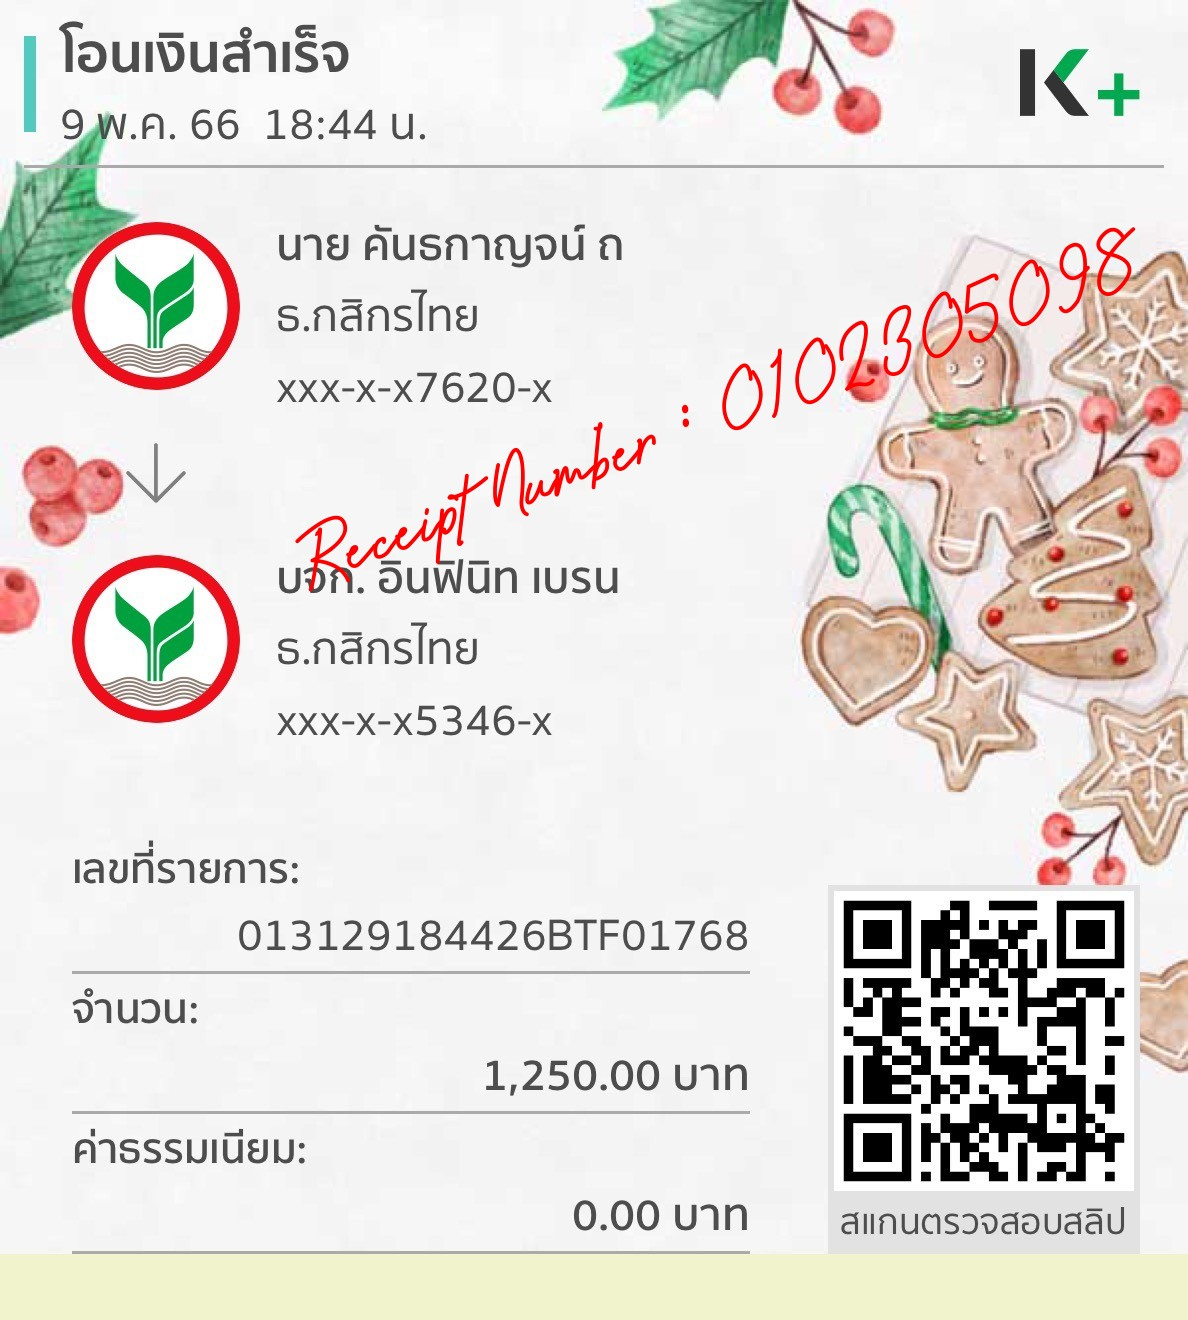
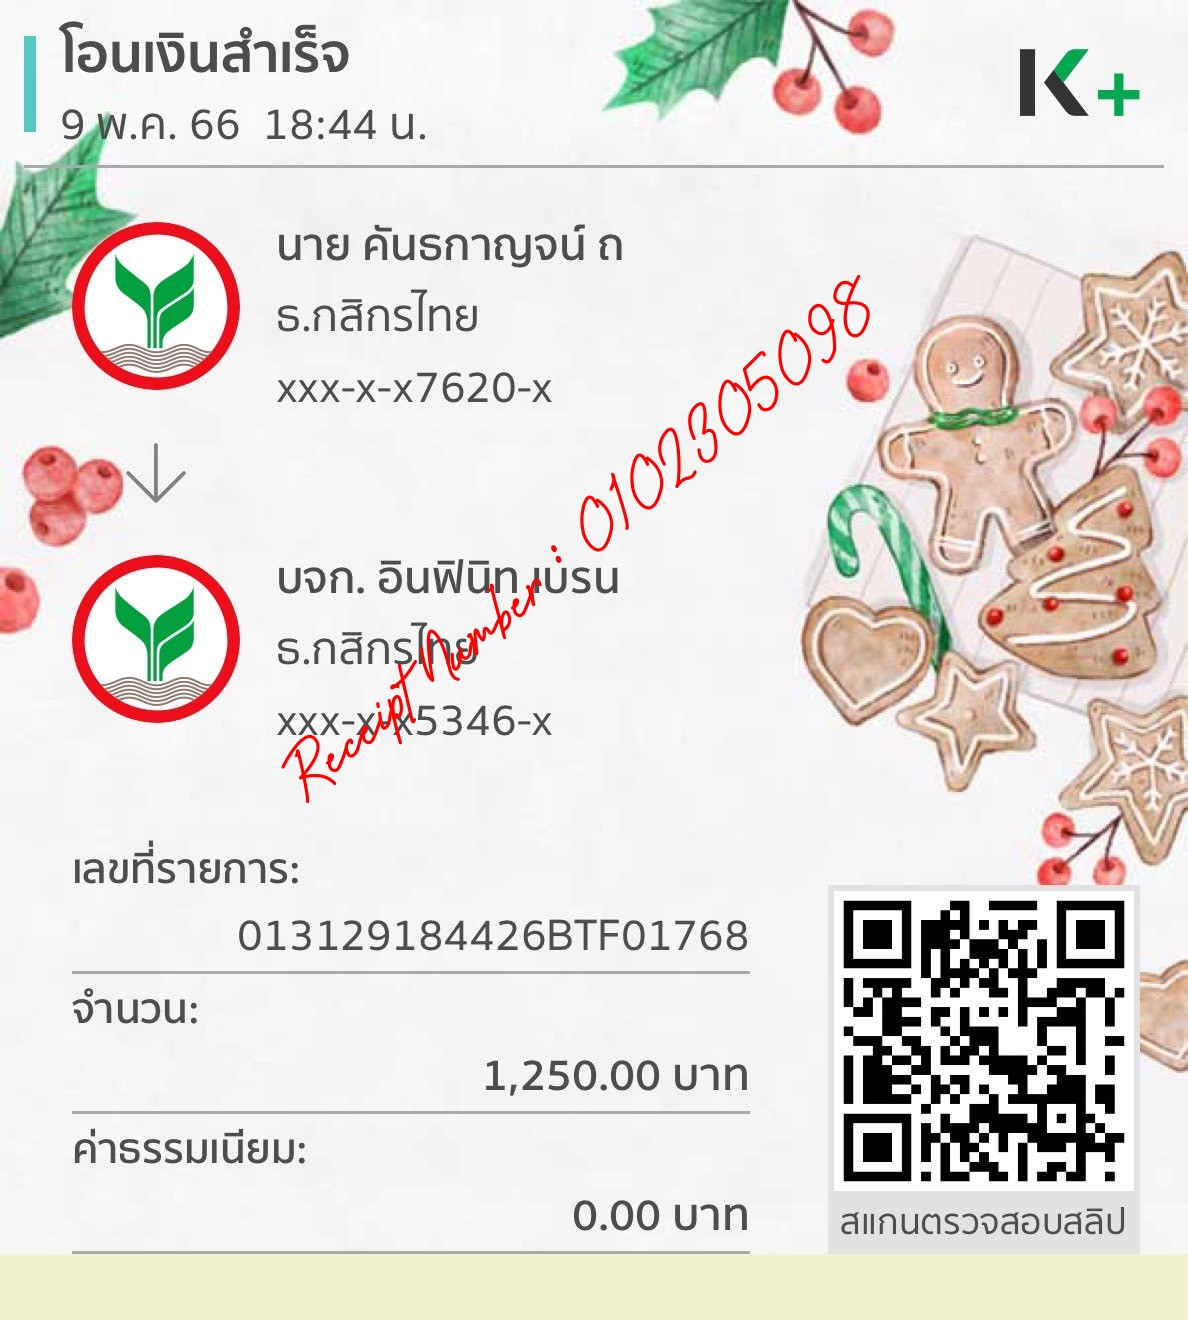
fix

Changed region(s): [[0.2492, 0.1553, 0.9655, 0.4348], [0.3114, 0.4348, 0.4672, 0.5591], [0.2492, 0.5591, 0.3114, 0.5902]]

diff --git a/app/Http/Controllers/ReceiptController.php b/app/Http/Controllers/ReceiptController.php
@@ -287,13 +287,13 @@ class ReceiptController extends Controller
     {
         $img = Image::make(public_path('receipt_form_images/'.$image));
 
-        $img->text($text, 710, 370, function ($font) {
+        $img->text($text, 610, 570, function ($font) {
             $font->file(public_path('font/amandasignature.ttf'));
-            $font->size(70);
+            $font->size(60);
             $font->color('#ff0000');
             $font->align('center');
-            $font->valign('top');
-            $font->angle(20);
+            $font->valign('bottom');
+            $font->angle(40);
         });
 
         $img->save(public_path('receipt_form_watermark_images/'.$image));
